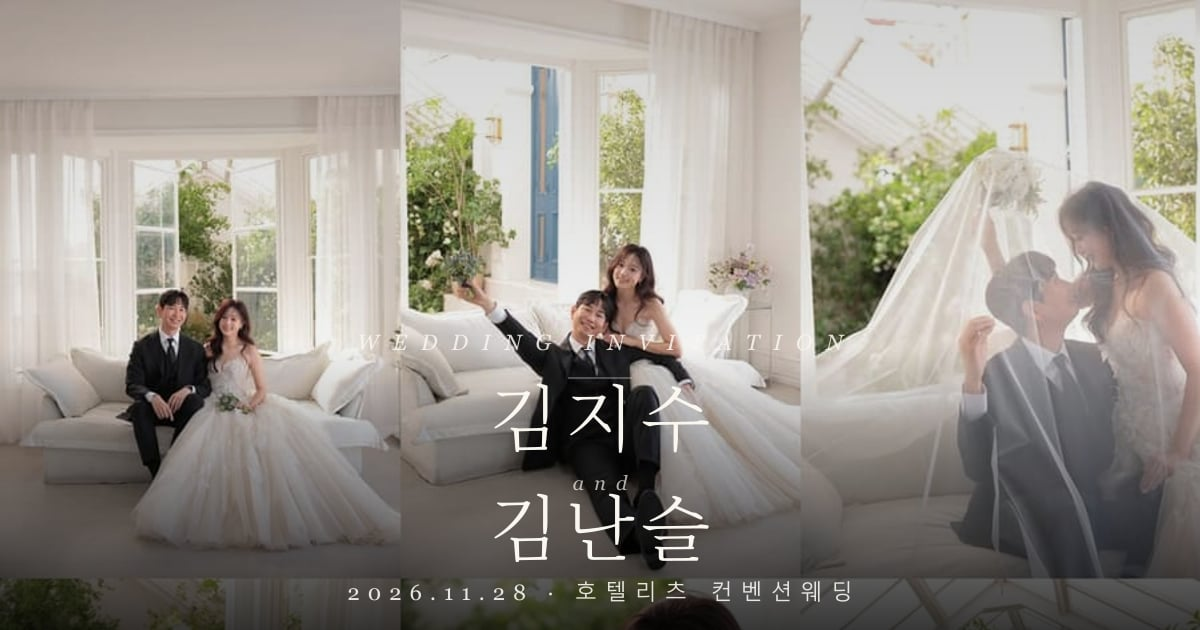
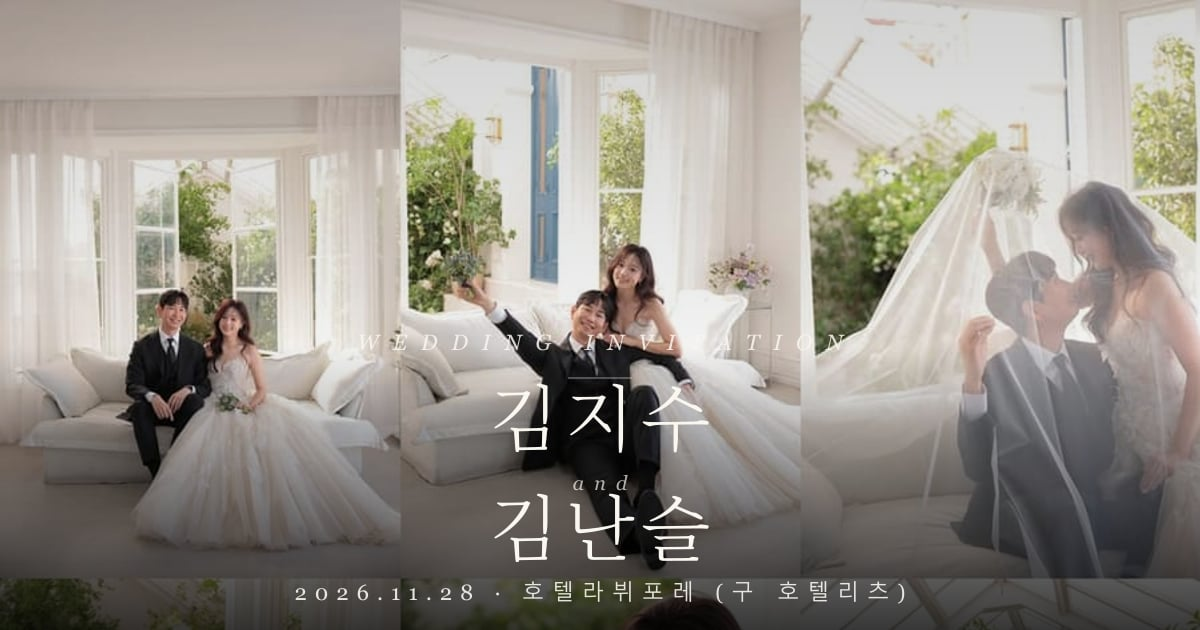
preview(where): 지도 버튼 pill 통일 + venue 이름 호텔라뷔포레 (구 호텔리츠)
지도 버튼 재디자인
* 이전: 컬러 원형(40×40) + 큰 알파벳 K/N/T + 아래 한글 라벨.
  → 사용자 피드백: "촌스러움". 09 공유 섹션의 Kakao 공유 pill 처럼
  세련되게 통일해달라.
* 새 디자인: 모두 동일한 pill 패턴.
  - 둥근 모서리, padding px-4 py-2.5, text-[13px] medium
  - 브랜드 컬러 배경 + 자기 마크 SVG (h-4 w-4) + 한글 라벨 inline
  - 미세 shadow `0_2px_8px` 로 떠있는 느낌. hover 시 brightness 95%.
* 마크 SVG (실제 로고가 아닌 손그림):
  - 카카오맵: 노란 #FEE500 배경 + 핀(어두운 #3A1D1D)
  - 네이버지도: 초록 #03C75A 배경 + N 글자(흰)
  - 티맵:     민트 #00C7B0 배경 + 위쪽화살표/T 글자(흰)
* 주소 복사 버튼도 같은 pill 패턴 (border + 복사 SVG + 라벨).
  네 버튼이 한 줄에 일정한 높이로 정렬 + flex-wrap 으로 좁은 폭
  에선 자동 줄바꿈.

Venue 이름 정정
* "호텔리츠 컨벤션웨딩" 은 정식 명칭 변경 전 이름. 실제 현재 호텔
  명은 "호텔라뷔포레" 이고 옛 이름이 더 알려져 있어서 손님들이
  헷갈리지 않도록 괄호 병기.
* `wedding.ts` venue.name: "호텔리츠 컨벤션웨딩" → "호텔라뷔포레
  (구 호텔리츠)".
* 지도 검색 URL (Kakao / Naver / TMAP) 의 query 도 "호텔라뷔포레"
  로 통일 — 카카오맵/네이버 모두 정식명으로 indexed 되어있어 잘
  잡힘.
* `index.html` OG / twitter description 갱신, `pnpm gen-og` 로
  OG 이미지 재생성 (1200×630 cover photo + 새 이름).
* `tests/e2e/where.spec.ts` getByText/Href 어서션 모두 새 이름으로
  업데이트.

게이트: lint, tsc, vitest 86/86, e2e 34/34, lighthouse Perf 0.90 /
A11y 1.0 / BP 1.0 / SEO 1.0.

Changed region(s): [[0.2467, 0.9048, 0.74, 0.9651]]

diff --git a/src/sections/Where.tsx b/src/sections/Where.tsx
@@ -35,15 +35,66 @@ function MapPlaceholder({ venueName }: { venueName: string }) {
   )
 }
 
+/* Inline app-style SVG marks. Hand-tuned to feel like the real Kakao
+   Maps / Naver Map / TMAP marques without using the actual trademarked
+   logos: a pin for Kakao Map, the N letter for Naver, an arrow-T for
+   TMAP. Drawn at 24×24 viewbox for crisp scaling. */
+function KakaoMapMark() {
+  return (
+    <svg
+      aria-hidden="true"
+      viewBox="0 0 24 24"
+      fill="currentColor"
+      className="h-4 w-4"
+    >
+      <path d="M12 2.5c-3.86 0-7 2.95-7 6.6 0 4.95 7 12.4 7 12.4s7-7.45 7-12.4c0-3.65-3.14-6.6-7-6.6zm0 9.2a2.6 2.6 0 1 1 0-5.2 2.6 2.6 0 0 1 0 5.2z" />
+    </svg>
+  )
+}
+
+function NaverMark() {
+  return (
+    <svg
+      aria-hidden="true"
+      viewBox="0 0 24 24"
+      fill="currentColor"
+      className="h-4 w-4"
+    >
+      <path d="M6 4v16h4.4v-9.1L14.6 20H18V4h-4.4v9.1L9.4 4H6z" />
+    </svg>
+  )
+}
+
+function TmapMark() {
+  return (
+    <svg
+      aria-hidden="true"
+      viewBox="0 0 24 24"
+      fill="none"
+      stroke="currentColor"
+      strokeWidth="2.2"
+      strokeLinecap="round"
+      strokeLinejoin="round"
+      className="h-4 w-4"
+    >
+      <path d="M4 6h16" />
+      <path d="M12 6v14" />
+      <path d="M16 14l4-4 4 4" strokeOpacity="0" />
+      <path d="M15 11l3-3 3 3" />
+      <path d="M18 8v12" />
+    </svg>
+  )
+}
+
 function CopyIcon() {
   return (
     <svg
       aria-hidden="true"
-      className="h-5 w-5"
+      className="h-4 w-4"
       viewBox="0 0 24 24"
       fill="none"
       stroke="currentColor"
-      strokeWidth="1.6"
+      strokeWidth="1.7"
       strokeLinecap="round"
       strokeLinejoin="round"
     >
@@ -53,36 +104,28 @@ function CopyIcon() {
   )
 }
 
-interface IconButtonProps {
-  label: string
-  bg: string
-  fg: string
-  letter: string
+interface MapPillProps {
+  href: string
   ariaLabel: string
+  label: string
+  className: string
+  icon: React.ReactNode
 }
 
-function ExternalIconLink({
-  href,
-  ariaLabel,
-  label,
-  bg,
-  fg,
-  letter,
-}: IconButtonProps & { href: string }) {
+function MapPill({ href, ariaLabel, label, className, icon }: MapPillProps) {
   return (
     <a
       href={href}
       target="_blank"
       rel="noopener noreferrer"
       aria-label={ariaLabel}
-      className="flex flex-col items-center gap-1.5 focus-visible:outline-none"
+      className={
+        'inline-flex items-center gap-1.5 rounded-full px-4 py-2.5 text-[13px] font-medium tracking-wide shadow-[0_2px_8px_rgba(0,0,0,0.08)] transition hover:brightness-[0.95] focus-visible:outline-2 focus-visible:outline-offset-2 focus-visible:outline-sage-strong ' +
+        className
+      }
     >
-      <span
-        className={`flex h-12 w-12 items-center justify-center rounded-full font-serif text-[18px] font-bold shadow-[0_2px_8px_rgba(0,0,0,0.08)] transition group-hover:scale-105 ${bg} ${fg} group-focus-visible:ring-2 group-focus-visible:ring-sage-strong group-focus-visible:ring-offset-2 group-focus-visible:ring-offset-ivory`}
-      >
-        {letter}
-      </span>
-      <span className="text-[11px] tracking-wide text-ink-mute">{label}</span>
+      {icon}
+      {label}
     </a>
   )
 }
@@ -176,50 +219,43 @@ export function Where() {
 
       <motion.div
         {...fade}
-        className="mt-7 flex items-start justify-center gap-5"
+        className="mt-7 flex flex-wrap items-center justify-center gap-2"
       >
         {kakaoMapUrl && (
-          <ExternalIconLink
+          <MapPill
             href={kakaoMapUrl}
             ariaLabel="카카오맵으로 열기"
             label="카카오맵"
-            bg="bg-[#FEE500]"
-            fg="text-[#3A1D1D]"
-            letter="K"
+            className="bg-[#FEE500] text-[#3A1D1D]"
+            icon={<KakaoMapMark />}
           />
         )}
         {naverMapUrl && (
-          <ExternalIconLink
+          <MapPill
             href={naverMapUrl}
             ariaLabel="네이버지도로 열기"
             label="네이버지도"
-            bg="bg-[#03C75A]"
-            fg="text-white"
-            letter="N"
+            className="bg-[#03C75A] text-white"
+            icon={<NaverMark />}
           />
         )}
         {tmapUrl && (
-          <ExternalIconLink
+          <MapPill
             href={tmapUrl}
             ariaLabel="티맵으로 길찾기"
             label="티맵"
-            bg="bg-[#00C7B0]"
-            fg="text-white"
-            letter="T"
+            className="bg-[#00C7B0] text-white"
+            icon={<TmapMark />}
           />
         )}
         <button
           type="button"
           onClick={handleCopy}
           aria-label="주소 복사"
-          className="flex flex-col items-center gap-1.5 focus-visible:outline-none"
+          className="inline-flex items-center gap-1.5 rounded-full border border-line bg-paper px-4 py-2.5 text-[13px] font-medium tracking-wide text-ink-soft shadow-[0_2px_8px_rgba(0,0,0,0.08)] transition hover:bg-sage-soft focus-visible:outline-2 focus-visible:outline-offset-2 focus-visible:outline-sage-strong"
         >
-          <span className="flex h-12 w-12 items-center justify-center rounded-full bg-sage-soft text-sage-strong shadow-[0_2px_8px_rgba(0,0,0,0.08)] transition hover:bg-sage-strong hover:text-paper">
-            <CopyIcon />
-          </span>
-          <span className="text-[11px] tracking-wide text-ink-mute">
-            주소 복사
-          </span>
+          <CopyIcon />
+          주소 복사
         </button>
       </motion.div>
 

diff --git a/index.html b/index.html
@@ -7,7 +7,7 @@
     <meta name="theme-color" content="#F5F1EA" />
     <meta name="description" content="2026년 11월 28일 토요일 오후 1시, 김지수 ♥ 김난슬의 결혼식에 초대합니다." />
     <meta property="og:title" content="김지수 ♥ 김난슬 결혼식 초대" />
-    <meta property="og:description" content="2026년 11월 28일 토요일 오후 1시 · 호텔리츠 컨벤션웨딩" />
+    <meta property="og:description" content="2026년 11월 28일 토요일 오후 1시 · 호텔라뷔포레" />
     <meta property="og:type" content="website" />
     <meta property="og:image" content="/og-image.jpg" />
     <meta property="og:image:width" content="1200" />
@@ -16,7 +16,7 @@
     <meta property="og:locale" content="ko_KR" />
     <meta name="twitter:card" content="summary_large_image" />
     <meta name="twitter:title" content="김지수 ♥ 김난슬 결혼식 초대" />
-    <meta name="twitter:description" content="2026년 11월 28일 토요일 오후 1시 · 호텔리츠 컨벤션웨딩" />
+    <meta name="twitter:description" content="2026년 11월 28일 토요일 오후 1시 · 호텔라뷔포레" />
     <meta name="twitter:image" content="/og-image.jpg" />
 
     <link rel="preconnect" href="https://fonts.googleapis.com" />

diff --git a/src/data/wedding.ts b/src/data/wedding.ts
@@ -179,7 +179,7 @@ export const wedding: WeddingInfo = {
   },
   dateTime: '2026-11-28T13:00:00+09:00',
   venue: {
-    name: '호텔리츠 컨벤션웨딩',
+    name: '호텔라뷔포레 (구 호텔리츠)',
     address: '경기도 수원시 팔달구 권광로134번길 46',
     transit: {
       subway: '수인분당선 수원시청역 1번 출구 · 도보 3분',
@@ -201,9 +201,9 @@ export const wedding: WeddingInfo = {
       ],
       parking: '주차 가능',
     },
-    kakaoMapUrl: 'https://map.kakao.com/?q=호텔리츠 컨벤션웨딩',
-    naverMapUrl: 'https://map.naver.com/p/search/호텔리츠 컨벤션웨딩',
-    tmapUrl: 'tmap://search?name=호텔리츠 컨벤션웨딩',
+    kakaoMapUrl: 'https://map.kakao.com/?q=호텔라뷔포레',
+    naverMapUrl: 'https://map.naver.com/p/search/호텔라뷔포레',
+    tmapUrl: 'tmap://search?name=호텔라뷔포레',
   },
   invitation:
     '저희 두 사람의 소중한 만남이\n사랑과 이해로 이어져\n한 가정을 이루게 되었습니다.\n\n평생을 함께하기로 약속하는 자리에\n귀한 걸음으로 축복해 주시면\n큰 기쁨이겠습니다.\n\n김지수 · 김난슬 드림',

diff --git a/tests/e2e/where.spec.ts b/tests/e2e/where.spec.ts
@@ -21,7 +21,9 @@ test.describe('Where section', () => {
       where.getByRole('heading', { level: 2, name: '오시는 길' }),
     ).toBeVisible()
 
-    await expect(where.getByText('호텔리츠 컨벤션웨딩')).toBeVisible()
+    await expect(
+      where.getByText('호텔라뷔포레 (구 호텔리츠)'),
+    ).toBeVisible()
     await expect(
       where.getByText('경기도 수원시 팔달구 권광로134번길 46'),
     ).toBeVisible()
@@ -30,13 +32,13 @@ test.describe('Where section', () => {
     await expect(kakao).toBeVisible()
     await expect(kakao).toHaveAttribute(
       'href',
-      'https://map.kakao.com/?q=호텔리츠 컨벤션웨딩',
+      'https://map.kakao.com/?q=호텔라뷔포레',
     )
 
     const naver = where.getByRole('link', { name: '네이버지도로 열기' })
     await expect(naver).toHaveAttribute(
       'href',
-      'https://map.naver.com/p/search/호텔리츠 컨벤션웨딩',
+      'https://map.naver.com/p/search/호텔라뷔포레',
     )
 
     const tmap = where.getByRole('link', { name: '티맵으로 길찾기' })

diff --git a/vite.config.ts b/vite.config.ts
@@ -4,4 +4,16 @@ import tailwindcss from '@tailwindcss/vite'
 
 export default defineConfig({
   plugins: [react(), tailwindcss()],
+  // Pin the dev port so the Kakao Developer Console domain allow-list
+  // doesn't drift each time a zombie process leaves an earlier port in use.
+  // strictPort: true → fail loudly if 5177 is already taken (so we know to
+  // kill the offender) instead of silently falling forward to 5178/5179/…
+  server: {
+    port: 5177,
+    strictPort: true,
+  },
+  preview: {
+    port: 5177,
+    strictPort: true,
+  },
 })
